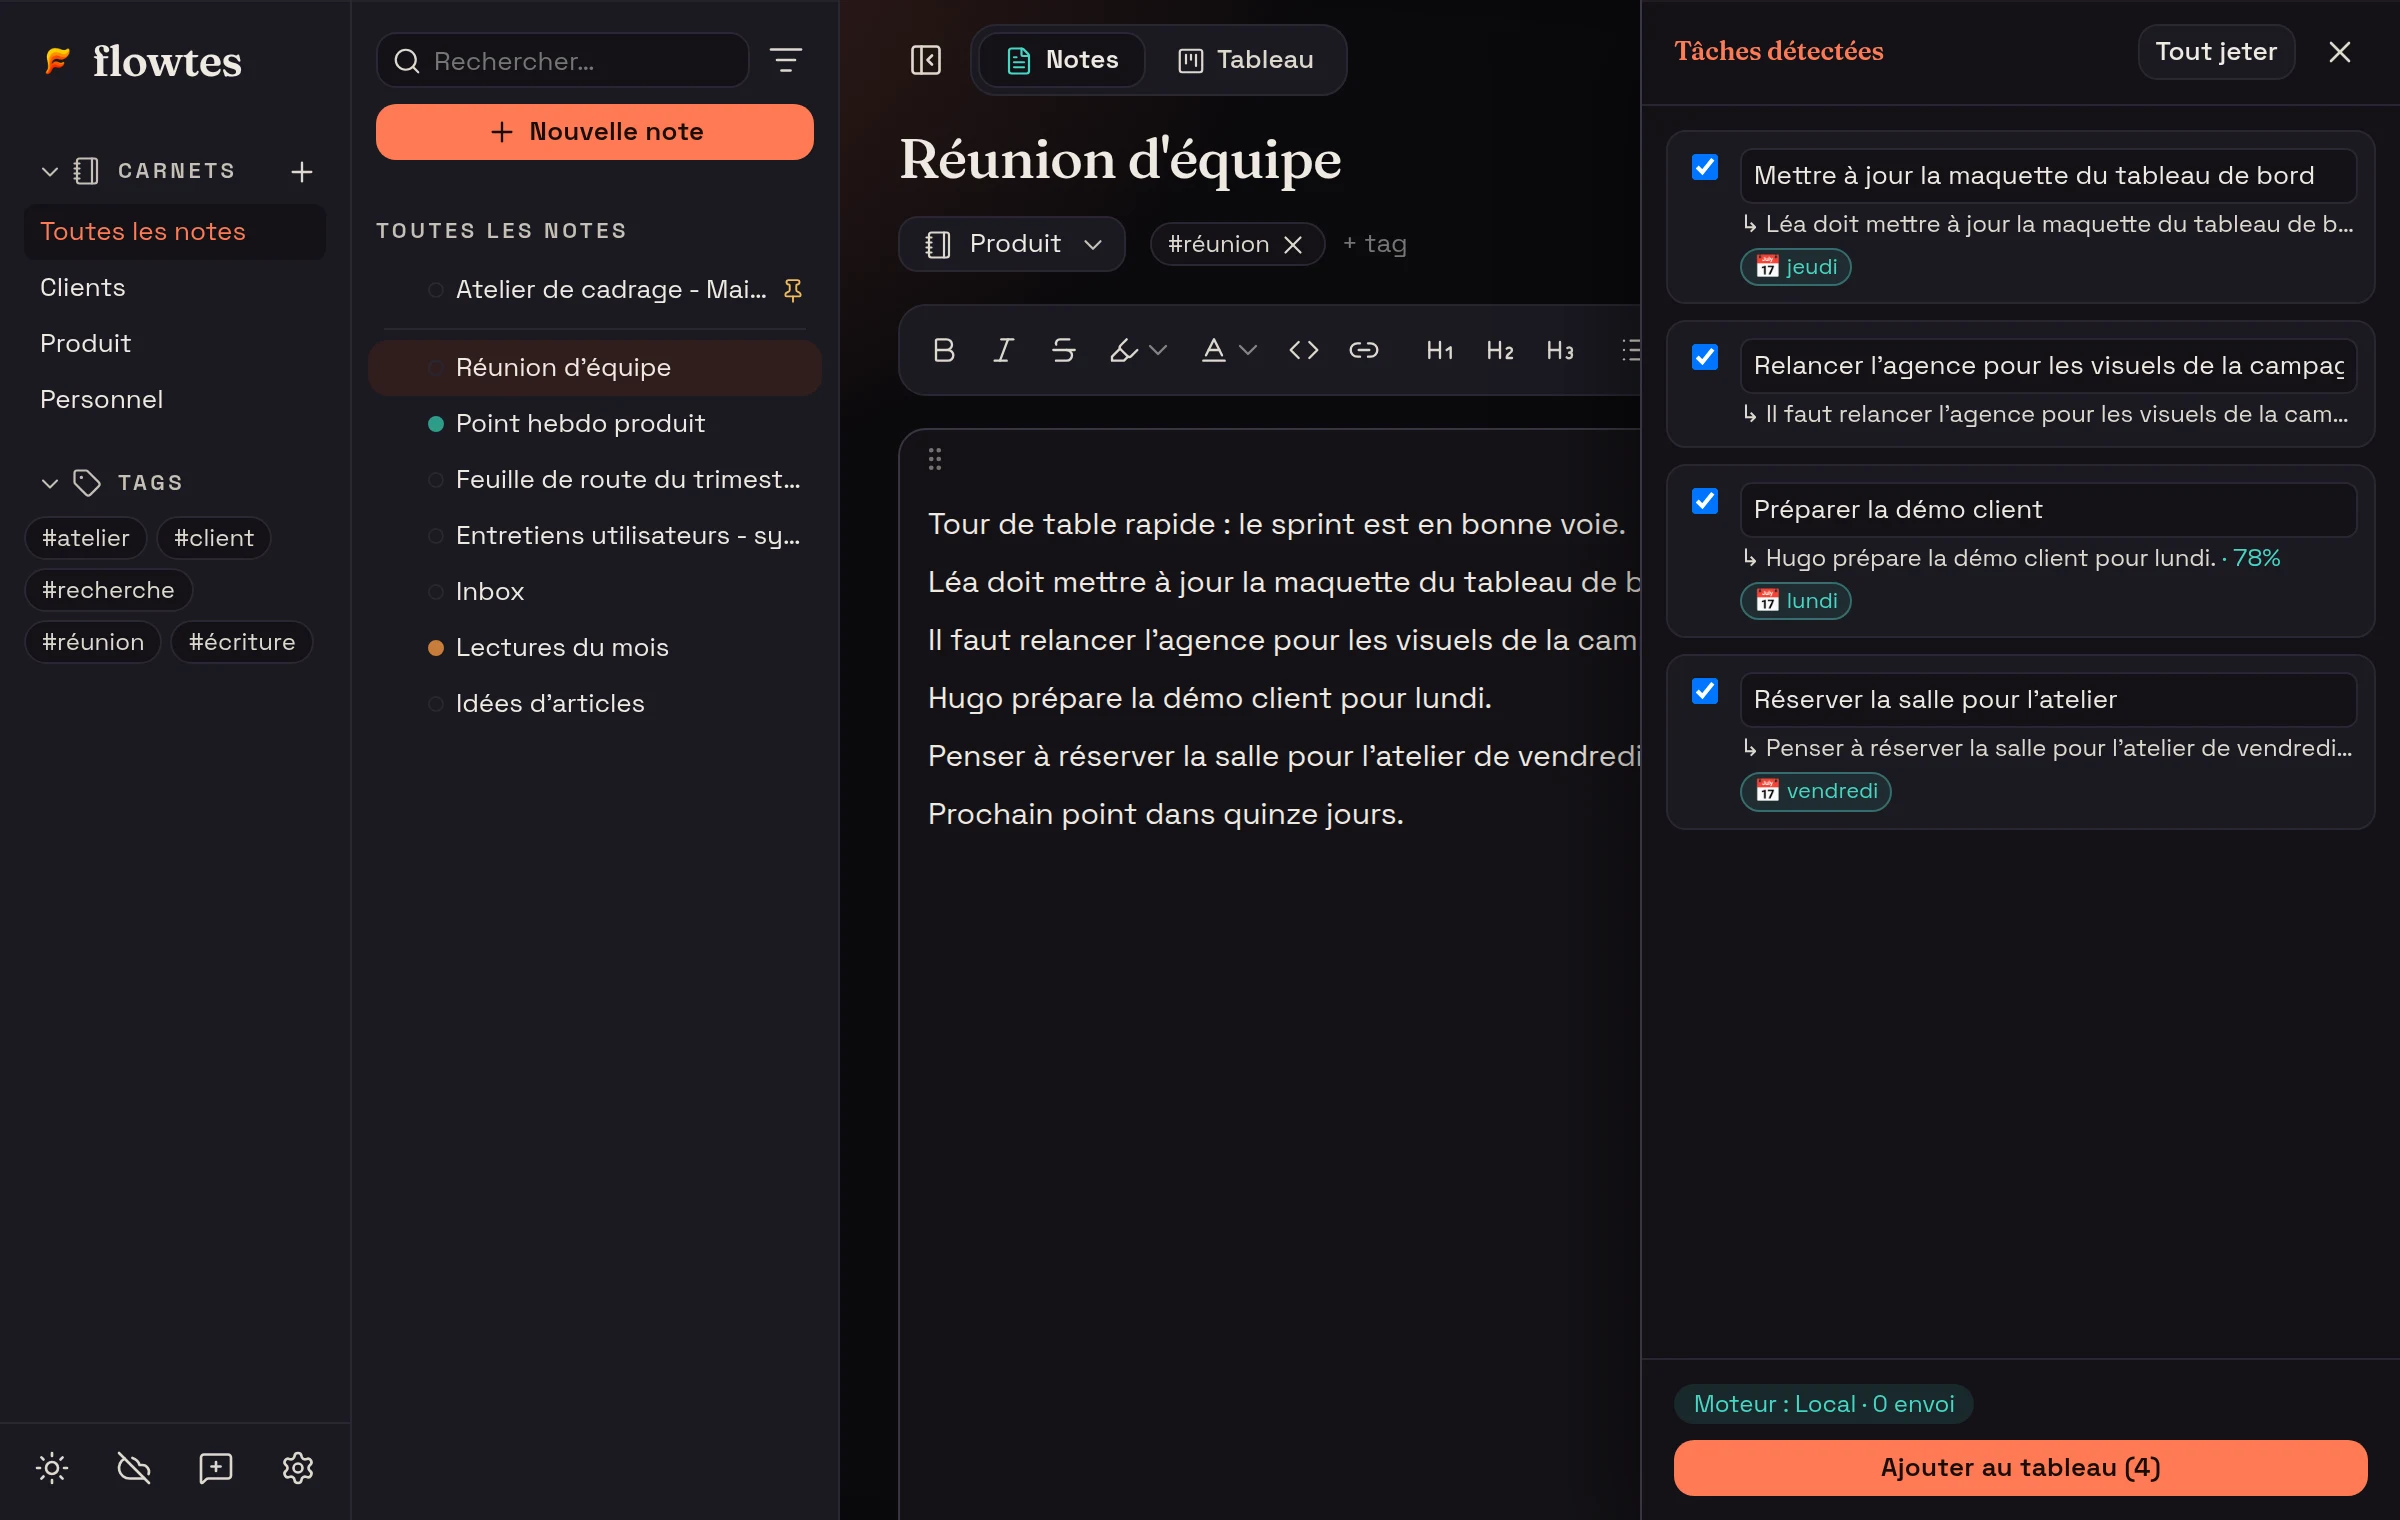
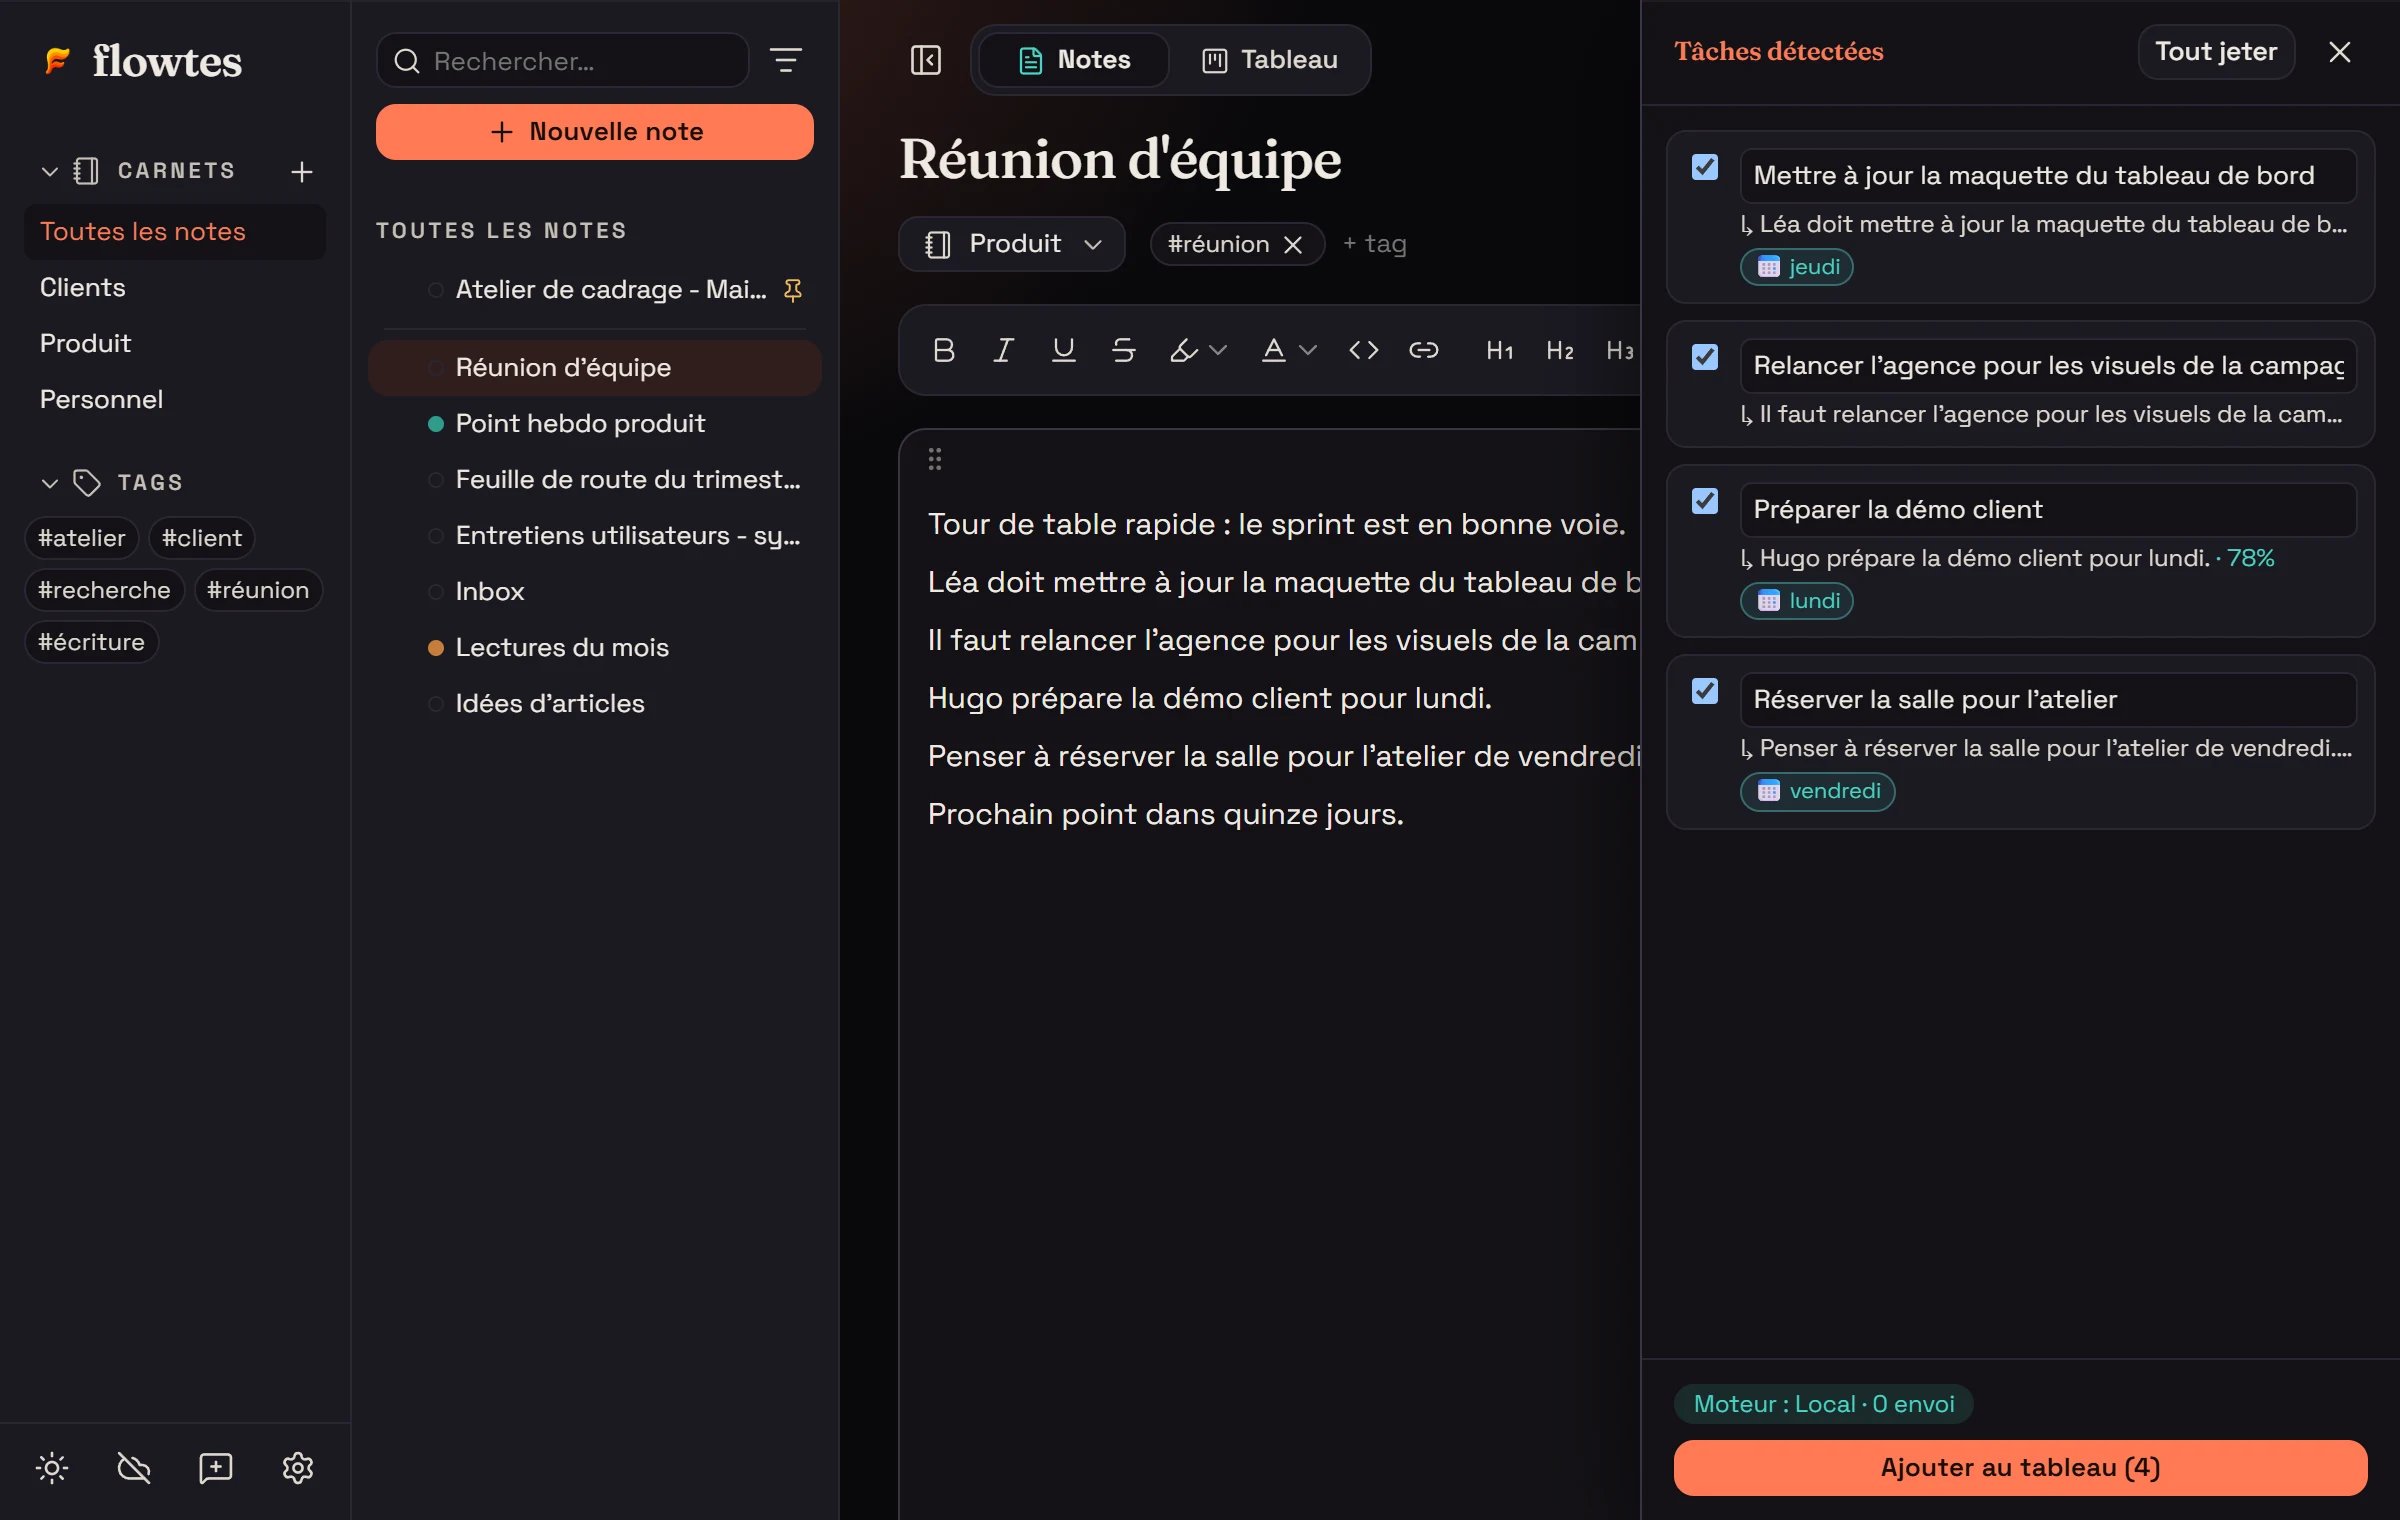
Vitrine de la version 0.9.1

diff --git a/README.md b/README.md
@@ -10,14 +10,14 @@ Une app de bureau qui réunit vos notes et votre tableau de tâches.<br>
 Elle repère les actions dans ce que vous écrivez. Vos données restent sur votre ordinateur.
 
 <p>
-  <a href="https://github.com/Vitopya/flowtes-releases/releases/download/v0.9.0/Flowtes_0.9.0_x64-setup.exe"><b>Télécharger pour Windows</b></a>
+  <a href="https://github.com/Vitopya/flowtes-releases/releases/download/v0.9.1/Flowtes_0.9.1_x64-setup.exe"><b>Télécharger pour Windows</b></a>
   &nbsp;·&nbsp;
-  <a href="https://github.com/Vitopya/flowtes-releases/releases/download/v0.9.0/Flowtes_0.9.0_aarch64.dmg"><b>Mac à puce Apple</b></a>
+  <a href="https://github.com/Vitopya/flowtes-releases/releases/download/v0.9.1/Flowtes_0.9.1_aarch64.dmg"><b>Mac à puce Apple</b></a>
   &nbsp;·&nbsp;
-  <a href="https://github.com/Vitopya/flowtes-releases/releases/download/v0.9.0/Flowtes_0.9.0_x64.dmg"><b>Mac Intel</b></a>
+  <a href="https://github.com/Vitopya/flowtes-releases/releases/download/v0.9.1/Flowtes_0.9.1_x64.dmg"><b>Mac Intel</b></a>
 </p>
 
-<sub>Version 0.9.0 du 29 septembre 2026 · Gratuit · Sans compte · Fonctionne hors ligne</sub>
+<sub>Version 0.9.1 du 2 octobre 2026 · Gratuit · Sans compte · Fonctionne hors ligne</sub>
 
 </div>
 
@@ -62,9 +62,9 @@ Après une réunion, on relit ses notes, on repère les actions, puis on les rec
 
 | Votre ordinateur | Fichier à télécharger |
 |---|---|
-| Windows 10 ou 11 (64 bits) | [Flowtes_0.9.0_x64-setup.exe](https://github.com/Vitopya/flowtes-releases/releases/download/v0.9.0/Flowtes_0.9.0_x64-setup.exe) |
-| Mac à puce Apple (M1 et suivants) | [Flowtes_0.9.0_aarch64.dmg](https://github.com/Vitopya/flowtes-releases/releases/download/v0.9.0/Flowtes_0.9.0_aarch64.dmg) |
-| Mac Intel | [Flowtes_0.9.0_x64.dmg](https://github.com/Vitopya/flowtes-releases/releases/download/v0.9.0/Flowtes_0.9.0_x64.dmg) |
+| Windows 10 ou 11 (64 bits) | [Flowtes_0.9.1_x64-setup.exe](https://github.com/Vitopya/flowtes-releases/releases/download/v0.9.1/Flowtes_0.9.1_x64-setup.exe) |
+| Mac à puce Apple (M1 et suivants) | [Flowtes_0.9.1_aarch64.dmg](https://github.com/Vitopya/flowtes-releases/releases/download/v0.9.1/Flowtes_0.9.1_aarch64.dmg) |
+| Mac Intel | [Flowtes_0.9.1_x64.dmg](https://github.com/Vitopya/flowtes-releases/releases/download/v0.9.1/Flowtes_0.9.1_x64.dmg) |
 
 Puce Apple ou Intel ? Menu Pomme > À propos de ce Mac : la ligne « Puce » désigne un Mac à puce Apple, la ligne « Processeur » un Mac Intel.
 
@@ -79,18 +79,12 @@ Puce Apple ou Intel ? Menu Pomme > À propos de ce Mac : la ligne « Puce » dé
 
 Toutes les versions et leurs notes : [page des versions](https://github.com/Vitopya/flowtes-releases/releases).
 
-## Nouveautés de la version 0.9.0
+## Nouveautés de la version 0.9.1
 
-Flowtes parle aussi anglais, et le clic droit ne propose plus que ce que l'app sait faire.
+- Des tags mieux rangés dans la barre latérale
+- Une mention de copyright plus courte
 
-- Flowtes en français ou en anglais
-- Souligner du texte
-- Coller avec ou sans la mise en forme
-- Dupliquer une note
-- Un clic droit fait pour vos notes
-- Le pinceau reprend toute la mise en forme
-
-[Le détail de la version 0.9.0](https://github.com/Vitopya/flowtes-releases/releases/tag/v0.9.0)
+[Le détail de la version 0.9.1](https://github.com/Vitopya/flowtes-releases/releases/tag/v0.9.1)
 
 ## Questions fréquentes
 
